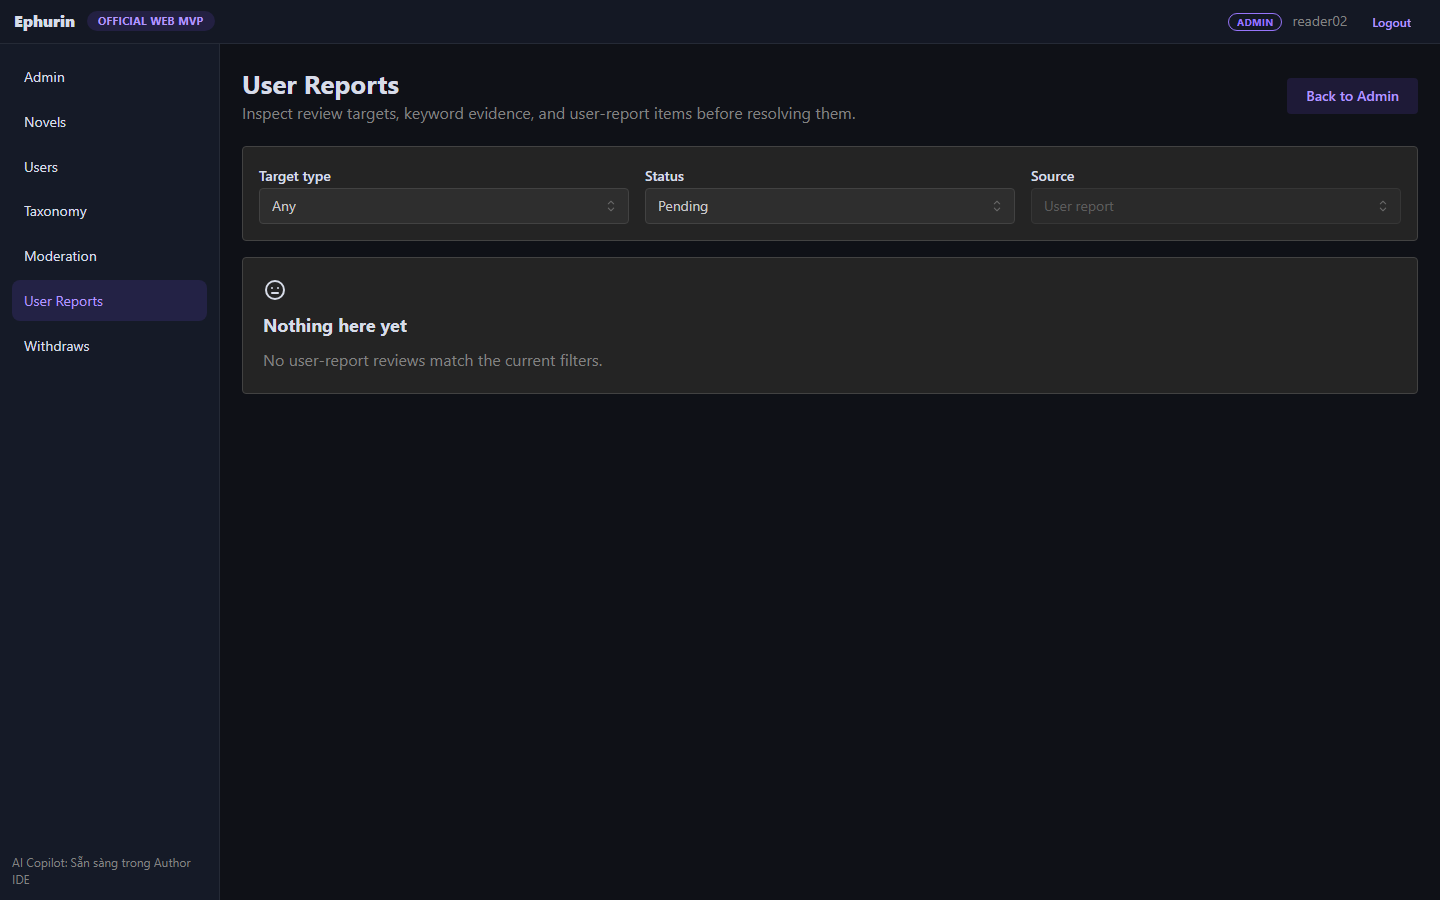
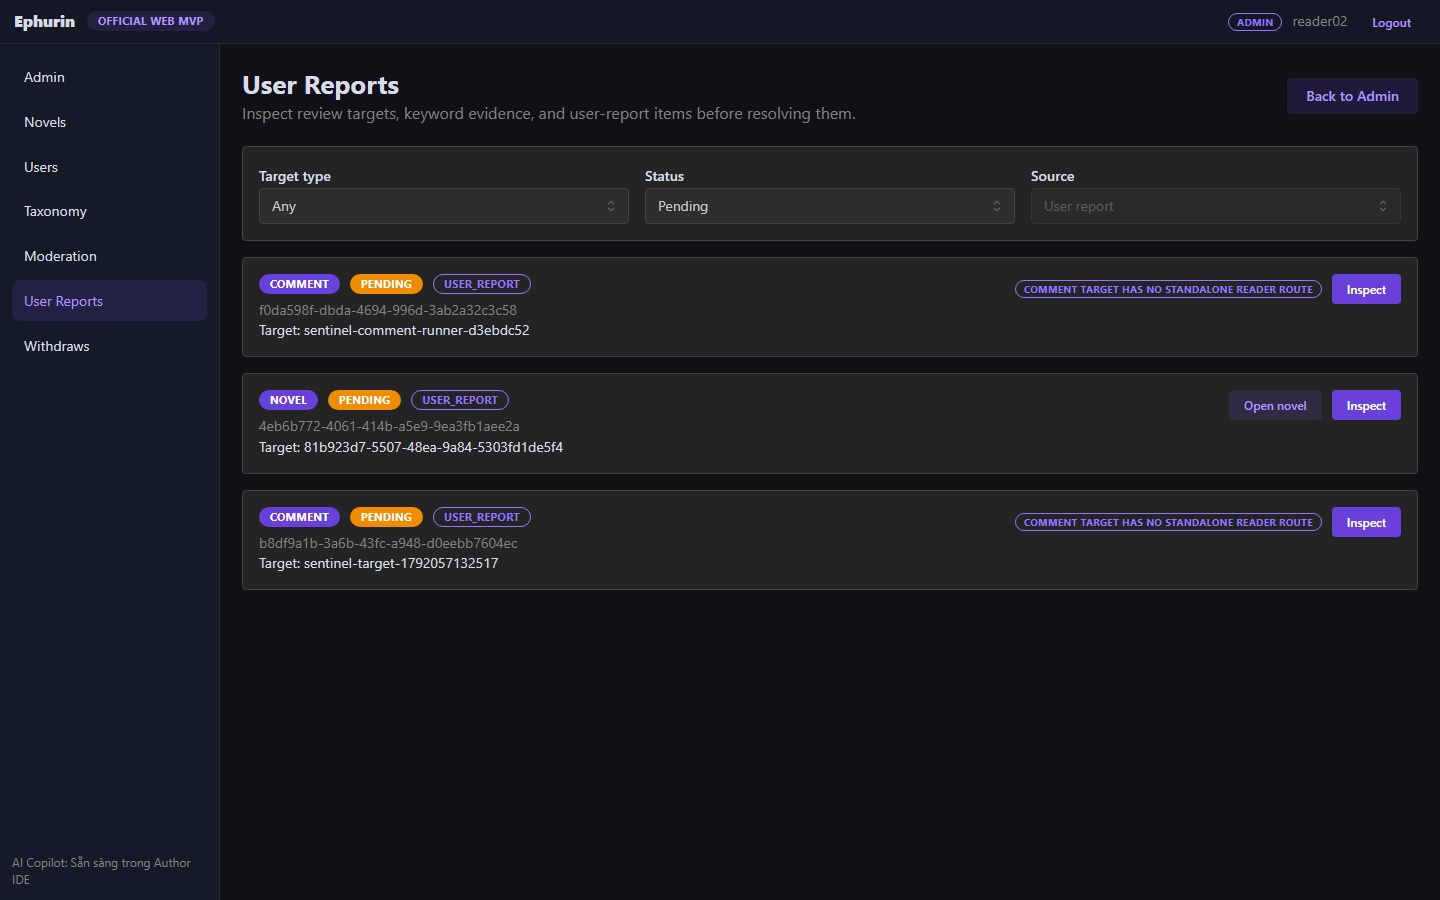
docs(moderation): reseal E2E evidence payload with sentinel preservation and hardened 17-invariant suite

diff --git a/docs/development/COMMENT-USER-REPORT-ADMIN-MODERATION-E2E-report.md b/docs/development/COMMENT-USER-REPORT-ADMIN-MODERATION-E2E-report.md
@@ -1,10 +1,10 @@
 # Acceptance Report: Gate COMMENT-USER-REPORT-ADMIN-MODERATION-E2E
 
 **Verdict**: `COMMENT_USER_REPORT_ADMIN_MODERATION_PASS`  
-**Tested Base Main SHA**: `2b00a36c78be0d8e4a2b59bbe84d810cd13da37c`  
-**Tested Code SHA**: `6a30907fc5a9fb7977b8ecde52562a5517418d79`  
+**Tested Base Main SHA**: `1b49d94577500c4456cfa4c7871b4c9fc713b2cc`  
+**Tested Code SHA**: `a6fac5c38fde2015b046a59469895cc50de6368d`  
 **Working Branch**: `astra/comment-user-report-admin-moderation-e2e`  
-**Date**: `2026-10-15 09:15:15Z`  
+**Date**: `2026-10-15 09:46:37Z`  
 **Driver**: Microsoft Edge CDP over WebSocket (real browser automation)
 
 ---
@@ -28,7 +28,8 @@ Reader A (Owner) Logs In via Rendered UI Form (/login)
   -> Detail verifies source=USER_REPORT, target=COMMENT, reportCount=1
   -> Rendered UI displays source-aware decision buttons: "Approve report" / "Reject report"
   -> Admin Clicks "Approve report" -> Modal confirms: "The reported comment will be removed."
-  -> Captured POST /api/v1/admin/moderation/reviews/:reviewId/resolve (decision=APPROVED)
+  -> Checkpoint F2: Inspects non-COMMENT USER_REPORT (NOVEL) -> Proves modal copy does NOT display false comment-removal text
+  -> Admin Clicks "Approve report" on comment review -> Captured POST /api/v1/admin/moderation/reviews/:reviewId/resolve (decision=APPROVED)
   -> DB Correlation: review APPROVED, report RESOLVED, comment soft-deleted (status=DELETED, deletedAt set)
   -> Review absent from pending /admin/reports queue
   -> Admin Clicks Rendered Logout
@@ -53,17 +54,17 @@ All mutations originated strictly in the rendered user interface. Credential hyg
 | **Admin User ID** | `bcedd10c-340e-4e37-9c24-ce86ccb6663c` | Fixture Admin Account (`reader02@example.com`) |
 | **Novel ID** | `81b923d7-5507-48ea-9a84-5303fd1de5f4` | Deterministic published novel |
 | **Chapter ID** | `c660bede-0493-4a46-97f2-6d01c8ddd3db` | Free published chapter |
-| **Comment ID** | `55b49707-2196-4d19-ae47-dd8757d0de1d` | Target comment created in Report-A |
-| **Comment Original Content** | `E2E clean report target 09510ecf` | Unique clean comment string |
-| **Comment Create Request ID** | `9240.361` | Captured via CDP `POST /chapters/:id/comments` |
-| **Report Create Request ID** | `9240.632` | Captured via CDP `POST /reports` |
-| **Report ID** | `1a0a2f11-e54c-4019-843b-d8e5f68a7176` | Captured from `POST /reports` response |
-| **Moderation Review ID** | `49243732-cdb0-4b89-9585-606d0b35fe98` | Created for USER_REPORT moderation review |
-| **Admin Review List Request ID** | `9240.901` | Captured via CDP `GET /admin/moderation/reviews` |
-| **Admin Review Detail Request ID** | `9240.902` | Captured via CDP `GET /admin/moderation/reviews/:id` |
-| **Admin Resolve Request ID** | `9240.903` | Captured via CDP `POST /admin/moderation/reviews/:id/resolve` |
-| **Reporter Notification ID** | `da6fd0ca-7763-4ce9-b9c0-e2820f7ded42` | Notification: `COMMENT_REPORT_APPROVED` |
-| **Owner Notification ID** | `a28f1b5e-4d19-4edf-9c0c-a5b8eb3cd116` | Notification: `COMMENT_REMOVED_BY_REPORT` |
+| **Comment ID** | `7d236030-1ae3-497f-ae3b-c3138e9fe8e8` | Target comment created in Report-A |
+| **Comment Original Content** | `E2E clean report target d3ebdc52` | Unique clean comment string |
+| **Comment Create Request ID** | `8876.360` | Captured via CDP `POST /chapters/:id/comments` |
+| **Report Create Request ID** | `8876.631` | Captured via CDP `POST /reports` |
+| **Report ID** | `0b5dd9ed-fa25-4304-b53e-57b8790457e9` | Captured from `POST /reports` response |
+| **Moderation Review ID** | `ba5a1def-0f38-4707-97d4-691301b0fe7c` | Created for USER_REPORT moderation review |
+| **Admin Review List Request ID** | `8876.900` | Captured via CDP `GET /admin/moderation/reviews` |
+| **Admin Review Detail Request ID** | `8876.901` | Captured via CDP `GET /admin/moderation/reviews/:id` |
+| **Admin Resolve Request ID** | `8876.1166` | Captured via CDP `POST /admin/moderation/reviews/:id/resolve` |
+| **Reporter Notification ID** | `c19d3e1d-d044-42c2-8a7e-2d1b0336fbfd` | Notification: `COMMENT_REPORT_APPROVED` |
+| **Owner Notification ID** | `5af09c3e-5026-41e8-b18c-ed1b9c8ec5d6` | Notification: `COMMENT_REMOVED_BY_REPORT` |
 
 ---
 
@@ -77,6 +78,7 @@ All mutations originated strictly in the rendered user interface. Credential hyg
 | **Report-D** | Persistence correlation | Inspect PostgreSQL | PostgreSQL: 1 row in `reports` (OPEN), 1 row in `moderation_reviews` (PENDING, USER_REPORT) | **PASS** |
 | **Report-E** | Admin logs in; opens /admin/reports | Shell Logout -> Admin Login -> `/admin/reports` | `GET /admin/moderation/reviews?source=USER_REPORT` returns 200. Review card rendered in queue | **PASS** |
 | **Report-F** | Admin opens detail & verifies source-aware copy | Click "Inspect" button | Detail proves target=COMMENT, source=USER_REPORT, reports=1. Modal copy: "The reported comment will be removed." | **PASS** |
+| **Checkpoint-F2** | Admin inspects non-comment review copy | Inspect NOVEL review | Modal copy proves NO false comment-removal text; displays truthful resolution copy | **PASS** |
 | **Report-G** | Admin clicks "Approve report" | Click modal confirm button | `POST /resolve` returns 200 with `decision=APPROVED` | **PASS** |
 | **Report-H** | Resolution persistence & queue removal | Inspect DB & reload queue | PostgreSQL: review APPROVED, report RESOLVED. Mongo: comment soft-deleted (status=DELETED, deletedAt set). Queue empty | **PASS** |
 | **Report-I** | Reporter notification verification | Shell Logout -> Reporter Login -> `/notifications` | Rendered list & MongoDB verify `COMMENT_REPORT_APPROVED` notification with matching reviewId and commentId | **PASS** |
@@ -84,42 +86,61 @@ All mutations originated strictly in the rendered user interface. Credential hyg
 
 ---
 
-## 4. Phase C Negative and Idempotency Suite
+## 4. Sentinel Preservation Proof (Zero Unscoped Deletion)
 
-All 12 Phase C invariants are dynamically verified by executing the production-path test suite:
+| Sentinel Type | Sentinel ID | Pre-Run Status | Post-Run Status | Cryptographic Hash Verification |
+|---|---|:---:|:---:|:---:|
+| `sentinel_review` | `f0da598f-dbda-4694-996d-3ab2a32c3c58` | `PENDING` | `PENDING` | **MATCH (PROVED)** |
+| `sentinel_report` | `aa5a15ae-e604-47b2-ace6-b7cbf2325cb8` | `OPEN` | `OPEN` | **MATCH (PROVED)** |
+| `sentinel_reporter_report` | `a49d664a-b960-4127-8664-b43020e5a339` | `OPEN` | `OPEN` | **MATCH (PROVED)** |
+| `sentinel_owner_comment` | `ebeda9a0-0602-4159-93c0-ff306b7df7cc` | `APPROVED` | `APPROVED` | **MATCH (PROVED)** |
+| `sentinel_notification` | `c5b65338-1bb9-4898-adcd-64236e28ab6e` | `-` | `-` | **MATCH (PROVED)** |
+
+All 5 planted sentinels were read back after both the deterministic test suites and the real browser CDP flow. Every SHA-256 fingerprint matched identically, mathematically proving that no broad or unscoped deletion occurred.
+
+---
+
+## 5. Phase C Negative and Invariant Suite
+
+All 17 Phase C invariants are dynamically verified by executing the production-path test suite:
 - **Suite Command**: `npx tsx --test --test-reporter=tap src/modules/content-control/comment-user-report-admin-moderation.postgres.test.ts`
 - **Test File**: `backend/src/modules/content-control/comment-user-report-admin-moderation.postgres.test.ts`
 - **Exit Code**: `0`
-- **Result**: `PASS` (12 passed, 0 failed)
+- **Result**: `PASS` (17 passed, 0 failed)
 
 Covered Invariants:
 1. **Anonymous Reports Rejection (401)**: Anonymous `POST /reports` is rejected with `AUTH_002` (HTTP 401).
 2. **Non-Admin Moderation Forbidden (403)**: Non-admin users cannot access or resolve admin moderation reviews (`AUTH_008` / HTTP 403).
 3. **Nonexistent Target Rejection (404)**: Reporting nonexistent comment fails closed with `CONTENT_001` (HTTP 404).
 4. **Deleted Target Rejection (404)**: Reporting already-deleted comment fails closed with `CONTENT_001` (HTTP 404).
-5. **Duplicate Open Report Prevention (409)**: Same reporter cannot create multiple unresolved OPEN reports for the same comment (`REPORT_001` / HTTP 409).
-6. **Multi-Reporter Review Aggregation**: Distinct reporters on the same comment reuse one open review and produce `reportCount=2`.
-7. **Approve Report Lifecycle**: Approving USER_REPORT transitions review to `APPROVED`, reports to `RESOLVED`, and soft-deletes comment in MongoDB.
-8. **Reject Report Lifecycle**: Rejecting USER_REPORT transitions review to `REJECTED`, reports to `REJECTED`, and keeps comment `APPROVED`.
-9. **Approve Notifications Delivery**: Correct notification types and payloads delivered to owner (`COMMENT_REMOVED_BY_REPORT`) and reporters (`COMMENT_REPORT_APPROVED`).
-10. **Reject Notifications Delivery**: Correct notification types and payloads delivered to owner (`COMMENT_REPORT_REJECTED_OWNER`) and reporters (`COMMENT_REPORT_REJECTED`).
-11. **Duplicate Resolve Rejection (409)**: Resolving an already-resolved moderation review fails closed with `ADMIN_002` (HTTP 409).
-12. **Keyword Filter Moderation Unchanged**: Keyword-filter moderation semantics remain intact and independent.
+5. **PENDING_MODERATION Target Rejection (404)**: Reporting comment in PENDING_MODERATION fails closed with `CONTENT_001` (HTTP 404).
+6. **REJECTED Target Rejection (404)**: Reporting comment in REJECTED status fails closed with `CONTENT_001` (HTTP 404).
+7. **Unpublished Chapter Target Rejection (404)**: Reporting comment on draft/unpublished chapter fails closed with `CONTENT_001` (HTTP 404).
+8. **Duplicate Open Report Prevention (409)**: Same reporter cannot create multiple unresolved OPEN reports for the same comment (`REPORT_001` / HTTP 409).
+9. **Concurrent Duplicate Submits (409)**: Concurrent same-reporter duplicate submissions resolve to exactly one OPEN report and application-level `409 REPORT_001` (not 23505/500).
+10. **Multi-Reporter Review Aggregation**: Distinct reporters on the same comment reuse one open review and produce `reportCount=2`.
+11. **Concurrent Distinct Reporters (Atomic Sharing)**: Concurrent distinct reporters atomically share single PENDING review without duplicate reviews.
+12. **Approve Report Lifecycle**: Approving USER_REPORT transitions review to `APPROVED`, reports to `RESOLVED`, and soft-deletes comment in MongoDB.
+13. **Reject Report Lifecycle**: Rejecting USER_REPORT transitions review to `REJECTED`, reports to `REJECTED`, and keeps comment `APPROVED`.
+14. **Approve Notifications Delivery**: Correct notification types and payloads delivered to owner (`COMMENT_REMOVED_BY_REPORT`) and reporters (`COMMENT_REPORT_APPROVED`).
+15. **Reject Notifications Delivery**: Correct notification types and payloads delivered to owner (`COMMENT_REPORT_REJECTED_OWNER`) and reporters (`COMMENT_REPORT_REJECTED`).
+16. **Duplicate Resolve Rejection (409)**: Resolving an already-resolved moderation review fails closed with `ADMIN_002` (HTTP 409).
+17. **Keyword Filter Moderation Unchanged**: Keyword-filter moderation semantics remain intact and independent.
 
 ---
 
-## 5. Local Validation Manifest
+## 6. Local Validation Manifest
 
-| `web_typecheck` | `npm run typecheck` | `4.97` | **PASS** |
-| `web_build` | `npm run build` | `16.51` | **PASS** |
-| `backend_typecheck` | `npm run typecheck` | `3.2` | **PASS** |
-| `comment_user_report_admin_moderation_postgres_test` | `npx tsx --test --test-reporter=tap src/modules/content-control/comment-user-report-admin-moderation.postgres.test.ts` | `2.38` | **PASS** |
-| `backend_all_unit_and_integration_tests` | `npm test` | `2.79` | **PASS** |
+| `web_typecheck` | `npm run typecheck` | `4.89` | **PASS** |
+| `web_build` | `npm run build` | `15.88` | **PASS** |
+| `backend_typecheck` | `npm run typecheck` | `3.04` | **PASS** |
+| `comment_user_report_admin_moderation_postgres_test` | `npx tsx --test --test-reporter=tap src/modules/content-control/comment-user-report-admin-moderation.postgres.test.ts` | `1.94` | **PASS** |
+| `backend_all_unit_and_integration_tests` | `npm test` | `2.5` | **PASS** |
 | `browser_comment_user_report_moderation_flow` | `CDP browser automation` | `-` | **PASS** |
 
 ---
 
-## 6. Artifact Inventory
+## 7. Artifact Inventory
 
 All screenshots captured at 1440x900 viewport via Microsoft Edge CDP:
 
@@ -139,11 +160,11 @@ Canonical evidence JSON:
 
 ---
 
-## 7. Stop Boundary State
+## 8. Stop Boundary State
 
 - **Gate Status**: `LOCAL_PASS_CI_PENDING`
 - **Branch**: `astra/comment-user-report-admin-moderation-e2e`
 - **Working Tree**: Clean (`git status --porcelain` is empty)
-- **Tested Code Commit**: `6a30907fc5a9fb7977b8ecde52562a5517418d79`
+- **Tested Code Commit**: `a6fac5c38fde2015b046a59469895cc50de6368d`
 - **Evidence Push**: Complete
 - **No PR or merge to main attempted** (owned by ChatGPT).
